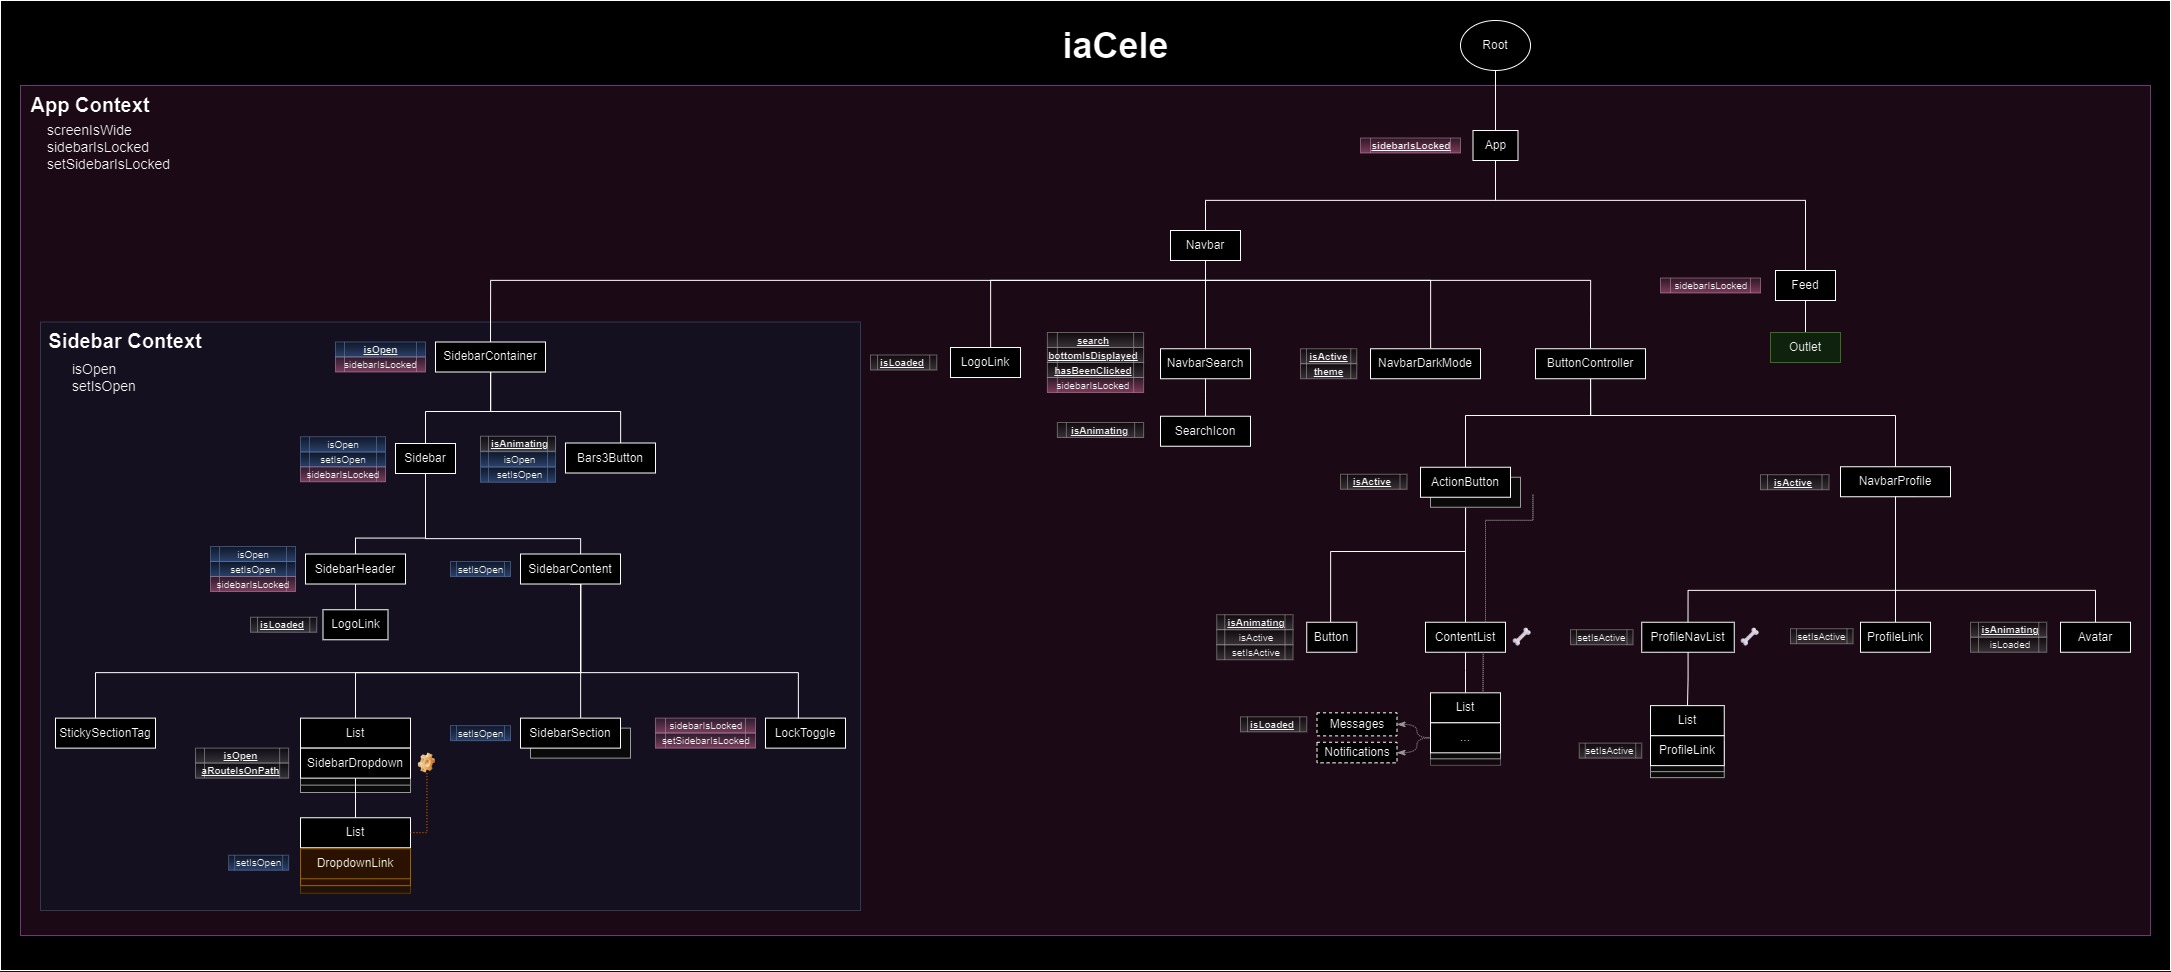
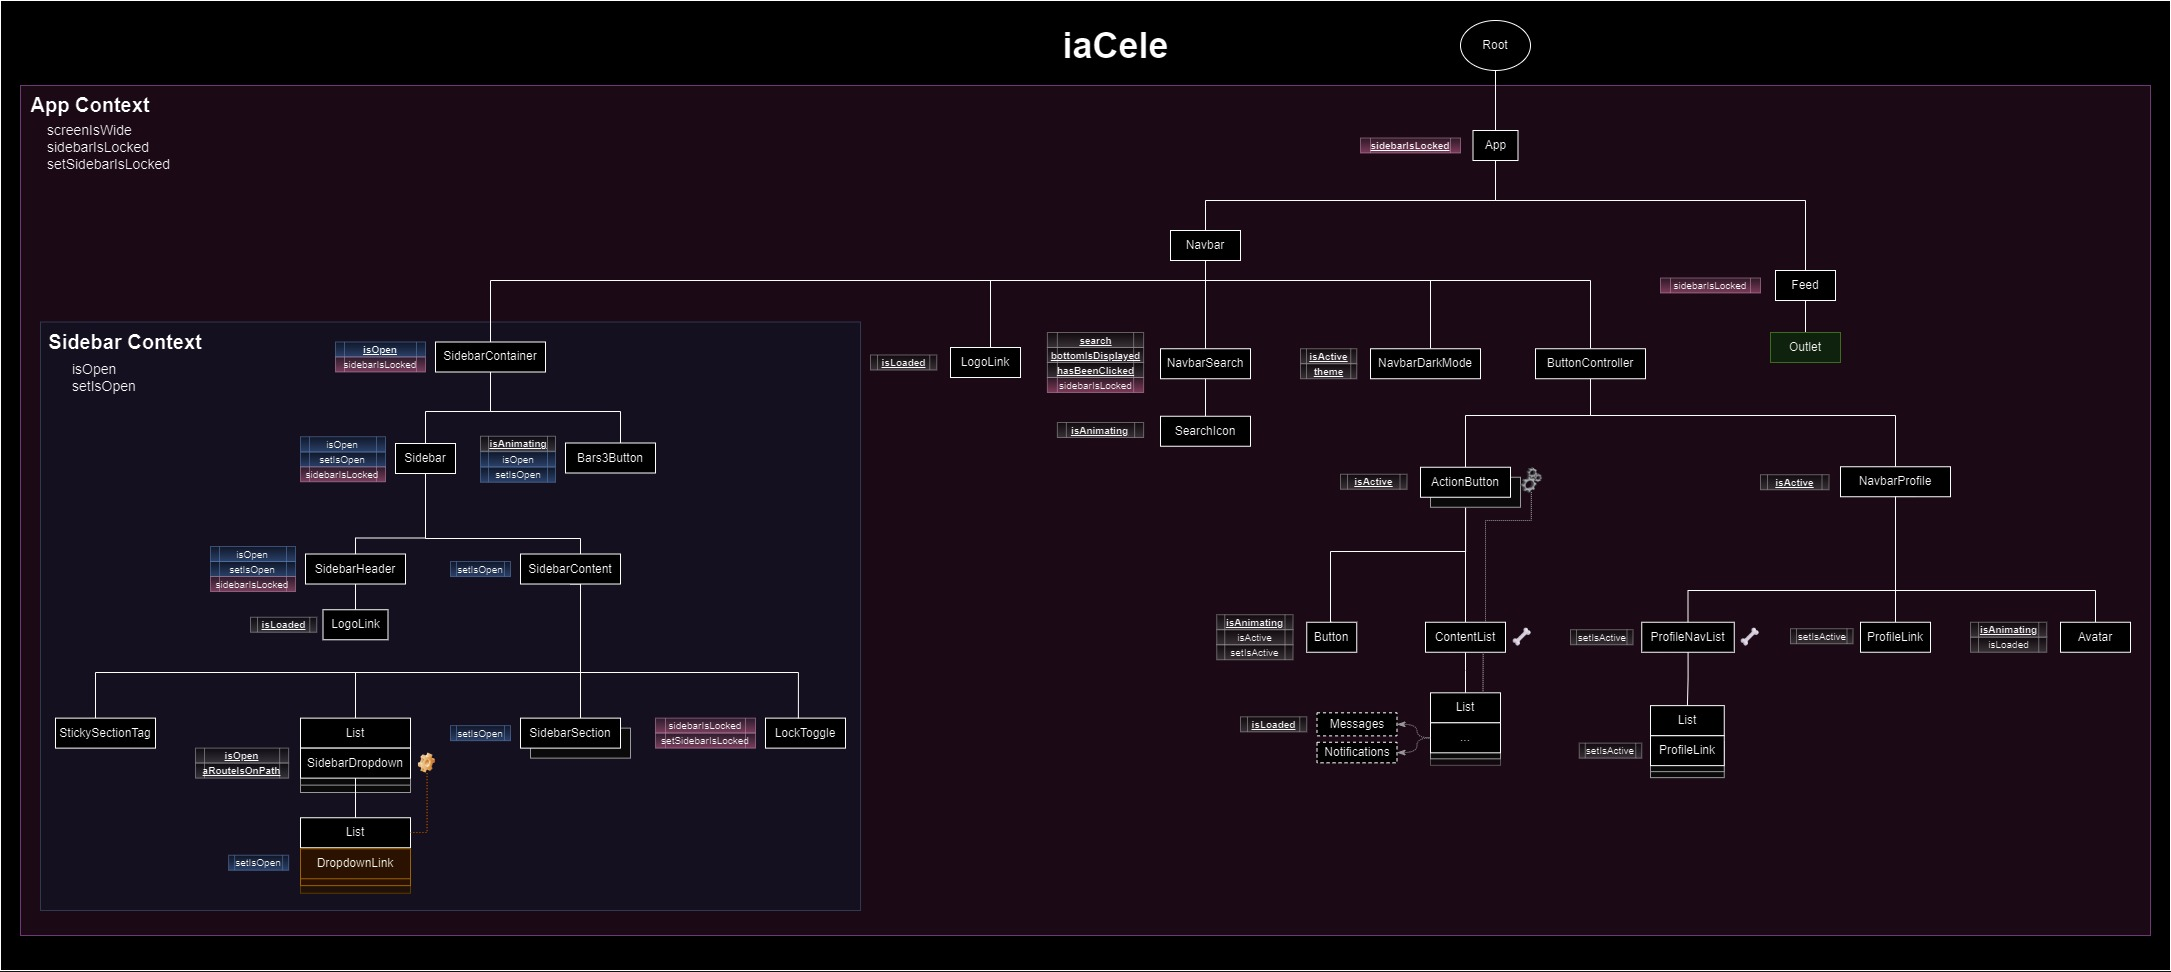
Más documentación

diff --git a/src/documentation/frontend-docs.md b/src/documentation/frontend-docs.md
@@ -1,12 +1,19 @@
 # Documentación del frontend
 
-## Dependencias
+## Conocimientos requeridos
+
+- React (recomendado estudiar secciones 1-9 del curso de LearnThisAcademy)
+- HTML
+- CSS
+- JavaScript
+
+**Dependencias**
 
 - TailwindCSS
 - Heroicons
 - React Router
 
-**Índice**
+## Índice
 
 - [Anatomía de la aplicación](#anatomía-de-la-aplicación)
 
@@ -23,44 +30,62 @@
 
 ### Glosario de elementos
 
-**Un componente**
+**Componentes**
 
-![ alt text](images/component.jpg)
-
-Un componente individual.
-
-**Varios componentes**
-
-![ alt text](images/components.jpg)
-
-Indica que existe más de una instancia de este componente en el nivel en el que se encuentre.
-
-**Generador de lista de componentes**
-
-![ alt text](images/generative_component.jpg)
-
-Un componente que genera un conjunto de componentes independientes en columna dentro de un div. En este ejemplo, List genera un conjunto de ProfileLinks.
-
-**Un componente que se heredó como prop**
-
-![alt text](images/prop_component.png)
-
-Se indica su origen con una tuerca naranja.
-
-**Outlet para componentes ruteados**
-
-![alt text](images/outlet.png)
-
-**Componentes opcionales**
-
-![alt text](images/optional_components.png)
-
-Están declarados dentro de otro, pero no se renderizan a menos que su padre reciba la indicación (aquí se hace a través de un prop con un string: 'message' o 'notifications').
+<table>
+  <tr>
+    <th>Elemento</th>
+    <th>Descripción</th>
+    <th>Imágen</th>
+  </tr>
+  <tr>
+    <td><b>Un componente</b></td>
+    <td>Un componente individual.</td>
+    <td><img src="images/component.jpg" alt="component" /></td>
+  </tr>
+  <tr>
+    <td><b>Varios componentes</b></td>
+    <td>Indica que existe más de una instancia de este componente en el nivel en el que se encuentre.</td>
+    <td><img src="images/components.jpg" alt="components" /></td>
+  </tr>
+  <tr>
+    <td><b>Generador de lista de componentes</b></td>
+    <td>
+      Un componente que genera un conjunto de componentes independientes en columna dentro de un div. En este ejemplo, List genera un conjunto de ProfileLinks.
+    </td>
+    <td><img src="images/generative_component.jpg" alt="generative_component" /></td>
+  </tr>
+  <tr>
+    <td><b>Un componente que se heredó como prop</b></td>
+    <td>Se indica su origen con una tuerca naranja.</td>
+    <td><img src="images/prop_component.png" alt="prop_component" /></td>
+  </tr>
+  <tr>
+    <td><b>Outlet para componentes ruteados</b></td>
+    <td>Un outlet para componentes ruteados.</td>
+    <td><img src="images/outlet.png" alt="outlet" /></td>
+  </tr>
+   <tr>
+    <td><b>Componentes opcionales</b></td>
+    <td>
+      Están declarados dentro de otro, pero no se renderizan a menos que su padre reciba la indicación (aquí se hace a través de un prop con un string: 'message' o 'notifications').
+    </td>
+    <td><img src="images/optional_components.png" alt="optional_components" /></td>
+  </tr>
+</table>
 
 **Estados y setters**
 
-![ alt text](images/states_2.jpg)
-![ alt text](images/states.jpg)
+<table>
+  <tr>
+    <td>
+      <img src="images/states_2.jpg" alt='states_2'/>
+    </td>
+    <td>
+      <img src="images/states.jpg" alt='states'/>
+    </td>
+  </tr>
+</table>
 
 - Los de color gris no forman parte de ningún contexto.
 - Los de color rosado forman parte del contexto de App.
@@ -69,39 +94,124 @@ Están declarados dentro de otro, pero no se renderizan a menos que su padre rec
 
 **Esqueleto**
 
-![alt text](images/skeleton.png)
-
-Indica que el componente tiene un componente esqueleto como fallback para lazy.
+<table>
+  <tr>
+    <td>
+      <img src="images/skeleton.png"/>
+    </td>
+    <td>
+      Indica que el componente tiene un componente esqueleto como fallback para lazy.
+    </td>
+  </tr>
+</table>
 
 **Props**
 
-En el diagrama no se detallan los props específicos de cada componente, pues sus usos en la aplicación (en la mayoría de los casos) son muy sencillos. Pero sí hay indicadores en casos donde es importante aclarar ciertas estructuras que los involucran:
+En el diagrama no se detallan las props específicas de cada componente, pues sus usos en la aplicación (en la mayoría de los casos) son muy sencillos. En los casos donde no es tan fácil discernir con el árbol de nodos, se utilizan estos íconos como apoyo:
 
-![alt text](images/configurer_prop.png)
-![alt text](images/component_prop.png)
+<table>
+  <tr>
+    <td>
+      <img src="images/configurer_prop.png"/>
+    </td>
+    <td>
+      Indica que una prop del componente está configurando algo.
+    </td>
+  </tr>
+  <tr>
+    <td>
+      <img src="images/component_prop.png"/>
+    </td>
+    <td>
+      Indica que una prop del componente contiene un componente.
+    </td>
+  </tr>
+</table>
 
-- El gris indica que el prop configura
-- El naranja indica que el prop contiene un componente
+Estos íconos están para ayudar a dar contexto en los casos especiales dentro de la estructura de la aplicación, por ejemplo:
 
-Estos íconos están para dar contexto en los casos especiales dentro de la estructura de la aplicación, donde se necesita más que solo el árbol de nodos para entender.
+<table>
+  <tr>
+    <td>
+      <b>Caso 1</b>
+    </td>
+    <td>
+      <b>Caso 2</b>
+    </td>
+  </tr>
+  <tr>
+    <td>
+      <img src='images/special_case.png' />
+    </td>
+    <td>
+      <img src='images/special_case_2.png' />
+    </td>
+  </tr>
+  <tr>
+    <td>
+      Cada instancia del ActionButton tiene un prop que indica a su List, cuál de los componentes que soporta tiene que generar.<br>
+    </td>
+    <td>
+      El componente DropdownLink se está pasando como prop desde cada SidebarDropdown a su respectiva List.
+    </td>
+  </tr>
+</table>
 
-**Caso 1:**
+_NOTA: En el **caso 1** los componentes se declaran en List para permitir el lazy loading de los mismos (usualmente se heredan como props, como en el **caso 2**)._
 
-![alt text](images/special_case.png)
+## Directorios notables
 
-En este caso por ejemplo, cada instancia del ActionButton tiene un prop que indica a su List, cuál de los componentes que soporta tiene que generar.
-
-_NOTA: Los componentes se declaran en List para permitir el lazy loading de los mismos (usualmente se heredan como props)._
-
-**Caso 2:**
-
-![alt text](images/special_case_2.png)
-
-En este caso, componente DropdownLink se está pasando como prop desde cada SidebarDropdown a su respectiva List.
+<table>
+  <tr>
+    <th><b>Directorio</b></th>
+    <th><b>Descripción</b></th>
+  </tr>
+  <tr>
+    <td>
+      <img src='images/folder_routes.png'/>
+    </td>
+    <td>
+      Contiene todos los componentes ruteados (App, Ecommerce, Profile, etc).
+    </td>
+  </tr>
+  <tr>
+    <td>
+      <img src='images/folder_components.png'/>
+    </td>
+    <td>
+      Contiene los componentes no ruteados (Navbar, Sidebar, todos los que se ven en el diagrama).
+    </td>
+  </tr>
+  <tr>
+    <td>
+      <img src='images/folder_data.png'/>
+    </td>
+    <td>
+      Contiene el loader principal de la aplicación, así como la configuración y datos de la mayoría de componentes, siempre y cuando los datos no contengan otros componentes, pues hay detalles en la importación y fue mejor declararlos en el componente directamente. Por el momento, contiene: <br>
+      <ul>
+        <li>
+          Datos de mensajes
+        </li>
+        <li>
+          Datos de notificaciones
+        </li>
+        <li>
+          Links de perfil
+        </li>
+        <li>
+          Links de los dropdowns
+        </li>
+        <li>
+          Límite para pantalla ancha
+        </li>
+      </ul>
+    </td>
+  </tr>
+</table>
 
 ## Custom hooks
 
-**Ruta:** `src/custom hooks`
+![alt text](images/folder_custom_hooks.png)
 
 ### useClickOutside
 
@@ -133,80 +243,59 @@ Se encarga de monitorear el ancho de la pantalla. Recibe un límite de pixelaje,
 const screenIsWide = useScreenWidth(500) // Valores mayor a 500 devuelven verdadero; menores, falso
 ```
 
-## Directorios notables
-
-![alt text](images/folder_routes.png)
-
-Contiene todos los componentes ruteados (App, Ecommerce, Profile, etc).
-
-![alt text](images/folder_components.png)
-
-Contiene los componentes no ruteados (Navbar, Sidebar, todos los que se ven en el diagrama).
-
-![alt text](images/folder_data.png)
-
-Contiene el loader principal de la aplicación, así como la configuración y datos de la mayoría de componentes, siempre y cuando los datos no contengan otros componentes, pues hay detalles en la importación y fue mejor declararlos en el componente directamente. Por el momento, contiene:
-
-- Datos de mensajes
-- Datos de notificaciones
-- Links de perfil
-- Links de los dropdowns
-- Límite para pantalla ancha
-
 ## Componentes de UI
 
-- **Ruta:** `src/components/ui kit`
+![alt text](images/folder_ui.png)
 
-### Ávatar
-
-- **Archivo:** `Avatar.jsx`
-
-Avatar animado. Recibe una ruta de imágen,
-
-### Botón
-
-- **Archivo:** `Button.jsx`
-
-Botón animado. Recibe un ícono, un estado, un setter. Cuando se hace click, invierte el valor del estado.
-
-### Lista
-
-- **Archivo:** `List.jsx`
-
-Generador de lista de componentes en columna. Recibe un componente de formato, un arreglo de objetos (o un objeto individual), un nombre, estilo y props extra. La lista genera una columna de componentes a partir de los objetos y les pasa los props contenidos en cada uno. En caso de no recibir datos, la lista solo notifica que no hay elementos.
-
-### Botón candado
-
-- **Archivo:** `LockToggle.jsx`
-
-Botón de candado animado, recibe un setter y un estado. Bajo click invierte el estado.
-
-### Link de perfil, link de dropdown
-
-- **Archivos:** `ProfileLink.jsx`,`DropdownLink.jsx`
-
-Formato de NavLink con estilos hover y active para sus contenedores respectivos (dropdown y perfil)
-
-### Mensaje, notificación
-
-- **Archivos:** `Message.jsx`,`Notification.jsx`
-
-Formatos para mensajes y notificaciones. Notificación solo recibe título, texto. Mensaje recibe ávatar, título, texto.
-
-### Ícono de busqueda
-
-- **Archivo:** `SearchIcon.jsx`
-
-Formato para ícono de búsqueda con estilo de hover.
-
-### Etiqueta de sección pegajosa
-
-- **Archivo:** `StickySectionTag.jsx`
-
-Etiqueta de sección pegajosa, se adhiere al tope del contenedor cuando lo alcanza por desplazo de scroll. Si se declaran múltiples etiquetas, se van encimando una sobre otra cuando llegan al tope, la última en llegar es la que queda hasta arriba. Se pueden devolver a su lugar haciendo scroll de vuelta.
-
-### Link al home
-
-- **Archivo:** `LogoLink.jsx`
-
-Navlink que bajo click manda al home, consiste de una imágen y un h1. Recibe path de la imágen, ruta,
+<table>
+  <tr>
+    <th>Elemento</th>
+    <th>Archivo</th>
+    <th>Descripción</th>
+  </tr>
+  <tr>
+    <td><b>Ávatar</b></td>
+    <td><code>Avatar.jsx</code></td>
+    <td>Avatar animado. Recibe una ruta de imagen.</td>
+  </tr>
+  <tr>
+    <td><b>Botón</b></td>
+    <td><code>Button.jsx</code></td>
+    <td>Botón animado. Recibe un ícono, un estado, un setter. Cuando se hace click, invierte el valor del estado.</td>
+  </tr>
+  <tr>
+    <td><b>Lista</b></td>
+    <td><code>List.jsx</code></td>
+    <td>Generador de lista de componentes en columna. Recibe un componente de formato, un arreglo de objetos (o un objeto individual), un nombre, estilo y props extra. La lista genera una columna de componentes a partir de los objetos y les pasa los props contenidos en cada uno. En caso de no recibir datos, la lista solo notifica que no hay elementos.</td>
+  </tr>
+  <tr>
+    <td><b>Botón candado</b></td>
+    <td><code>LockToggle.jsx</code></td>
+    <td>Botón de candado animado, recibe un setter y un estado. Bajo click invierte el estado.</td>
+  </tr>
+  <tr>
+    <td><b>Link de perfil, link de dropdown</b></td>
+    <td><code>ProfileLink.jsx</code>, <code>DropdownLink.jsx</code></td>
+    <td>Formato de NavLink con estilos hover y active para sus contenedores respectivos (dropdown y perfil).</td>
+  </tr>
+  <tr>
+    <td><b>Mensaje, notificación</b></td>
+    <td><code>Message.jsx</code>, <code>Notification.jsx</code></td>
+    <td>Formatos para mensajes y notificaciones. Notificación solo recibe título y texto. Mensaje recibe ávatar, título y texto.</td>
+  </tr>
+  <tr>
+    <td><b>Ícono de búsqueda</b></td>
+    <td><code>SearchIcon.jsx</code></td>
+    <td>Formato para ícono de búsqueda con estilo de hover.</td>
+  </tr>
+  <tr>
+    <td><b>Etiqueta de sección pegajosa</b></td>
+    <td><code>StickySectionTag.jsx</code></td>
+    <td>Etiqueta de sección pegajosa, se adhiere al tope del contenedor cuando lo alcanza por desplazo de scroll. Si se declaran múltiples etiquetas, se van encimando una sobre otra cuando llegan al tope, la última en llegar es la que queda hasta arriba. Se pueden devolver a su lugar haciendo scroll de vuelta.</td>
+  </tr>
+  <tr>
+    <td><b>Link al home</b></td>
+    <td><code>LogoLink.jsx</code></td>
+    <td>Navlink que bajo click manda al home, consiste de una imagen y un h1. Recibe path de la imagen y ruta.</td>
+  </tr>
+</table>
